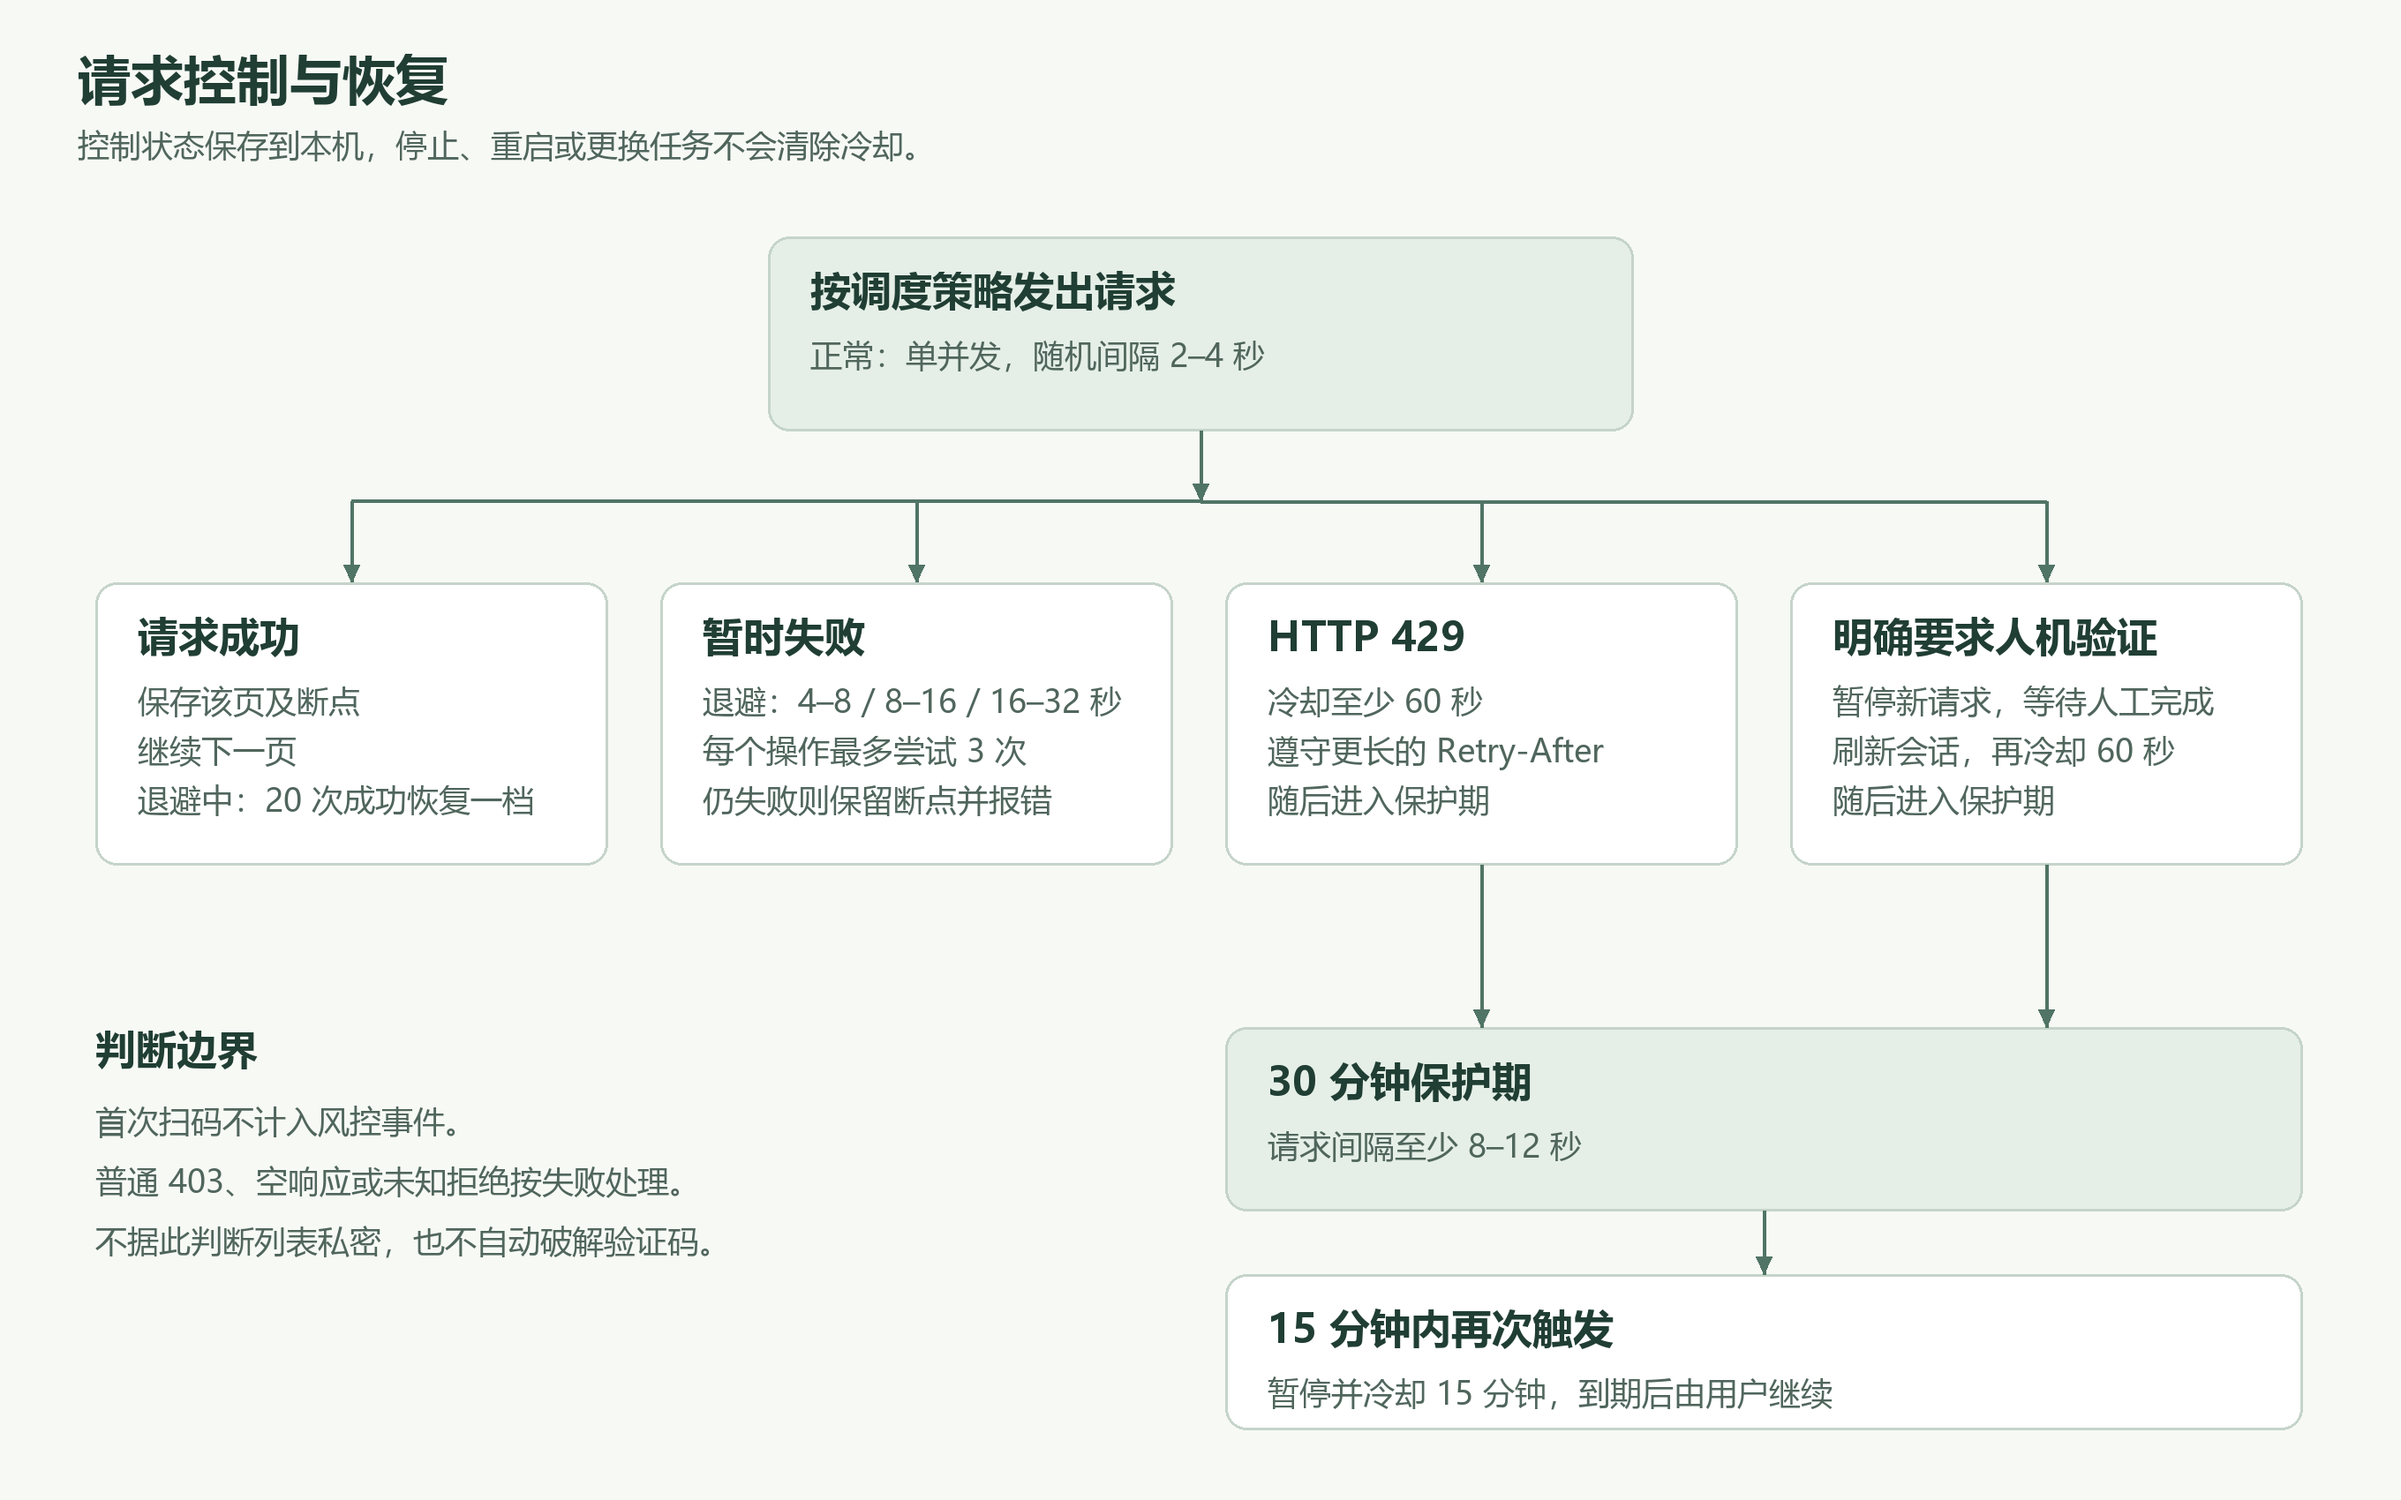
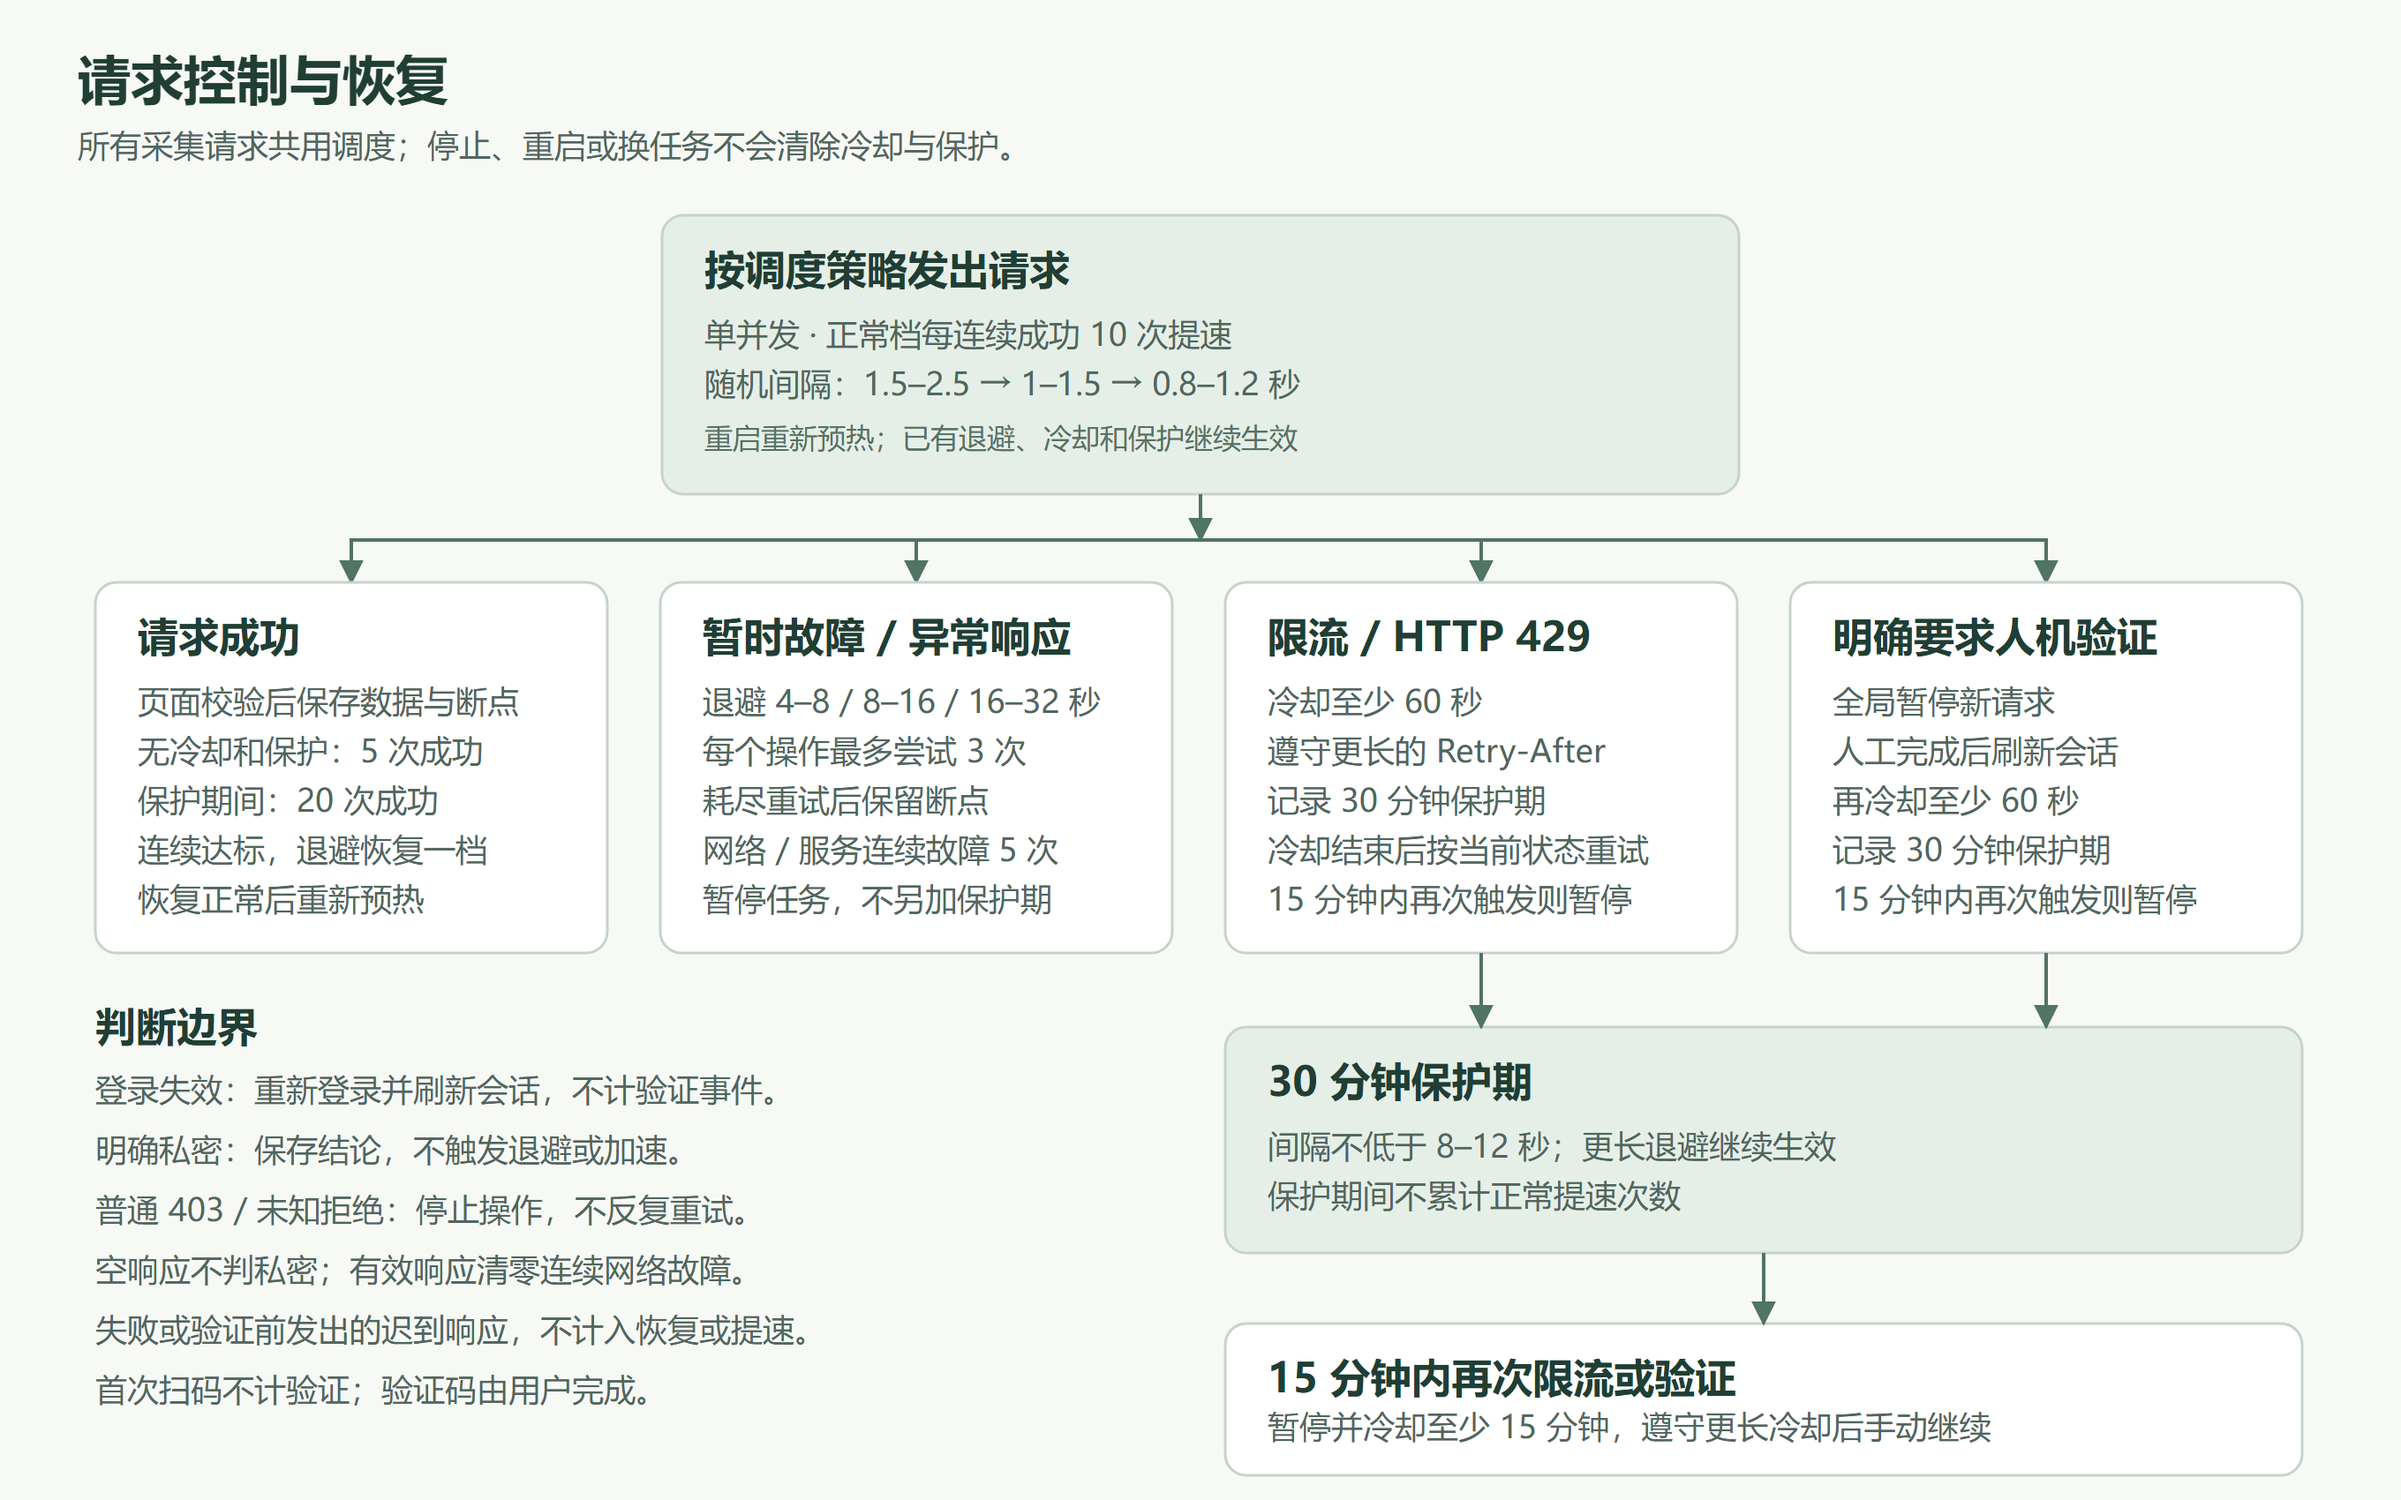
更新请求策略图与退避恢复说明
将正常请求间隔更新为 1.5–2.5、1–1.5、0.8–1.2 秒，明确每连续成功 10 次提速。
区分普通退避与保护期恢复条件，补充连续网络故障暂停、重试上限及断点保留规则。
补充登录失效、私密列表、限流和人工验证的处理，以及重复触发时的冷却期限。
同步请求策略图和架构文档中的说明。

diff --git a/docs/architecture.md b/docs/architecture.md
@@ -33,7 +33,7 @@
 
 ## 请求策略
 
-下图的 2–4 秒为每次启动时的初始档位，正常运行后按下表逐步提速。
+下图使用当前请求策略：正常间隔从随机 1.5–2.5 秒开始，每连续成功 10 次提速一档；已有退避、冷却和保护状态继续生效。
 
 ![请求失败、限流及人工验证时的处理流程](images/request-policy.png)
 
@@ -52,7 +52,7 @@
 | HTTP 429 或明确限流提示 | 至少冷却 60 秒，遵守更长的 `Retry-After` |
 | 明确需要人机验证 | 暂停新请求，人工完成后刷新会话，再冷却 60 秒 |
 | 限流或人机验证之后 | 进入 30 分钟保护期，间隔至少 8–12 秒 |
-| 15 分钟内再次触发 | 暂停任务并冷却 15 分钟，到期后由用户继续 |
+| 15 分钟内再次触发 | 暂停任务并冷却至少 15 分钟，保留更长的冷却期限，到期后由用户继续 |
 
 冷却与保护状态保存在 `data/collection-control.json`，停止、换任务或重启不会重置。首次扫码和登录过期后的重新登录均不计为风控事件。若等待登录期间又明确要求人机验证，登录恢复后仍须等待人工处理。
 
